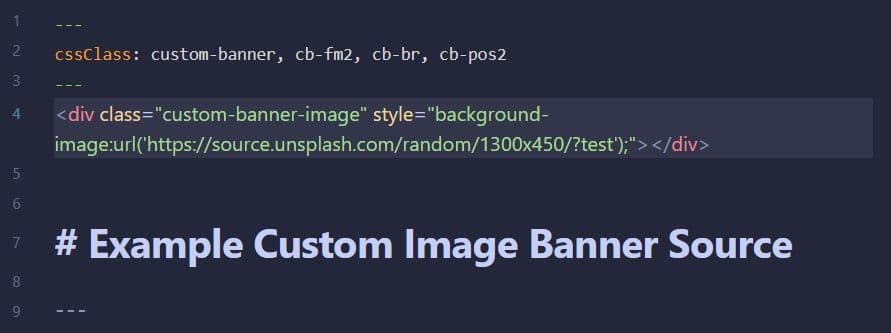
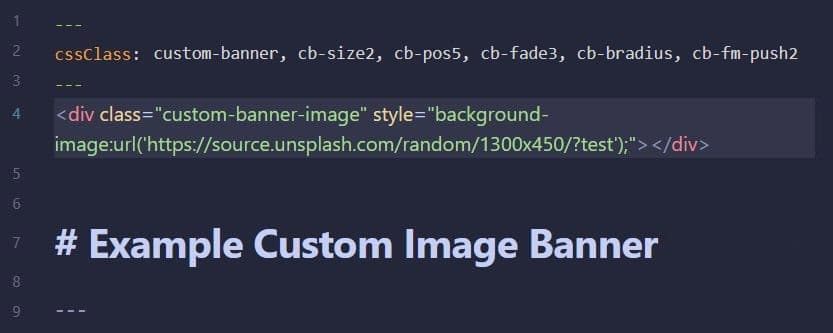
docs

diff --git a/README.md b/README.md
@@ -21,17 +21,17 @@ copy the `custom-banner-image.css` file to your Obsidian snippets folder and ena
 4. Optionally add these Frontmatter classes to further adjust properies like `image size`, `image display position`, `image fade percentage`, `image border radius`, and `frontmatter shift`
     - **banner image size** (_height_)
       ```
-      cb-sz1
-      cb-sz2
-      cb-sz3
-      cb-sz4
-      cb-sz5
+      cb-size1
+      cb-size2
+      cb-size3 [default]
+      cb-size4
+      cb-size5
       ```
 
     - **image position** (_shift image position in banner_)
       ```
       cb-pos1
-      cb-pos2
+      cb-pos2 [default]
       cb-pos3
       cb-pos4
       cb-pos5
@@ -39,11 +39,11 @@ copy the `custom-banner-image.css` file to your Obsidian snippets folder and ena
 
      - **image fade** (_transparency used as image fades from top to bottom_)
        ```
-       cb-fd1
-       cb-fd2
-       cb-fd3
-       cb-fd4
-       cb-fd5
+       cb-fade1
+       cb-fade2
+       cb-fade3
+       cb-fade4 [default]
+       cb-fade5
        ```
 
      - **display solid image** (_no fade_)
@@ -53,16 +53,16 @@ copy the `custom-banner-image.css` file to your Obsidian snippets folder and ena
   
      - **add border-radius to image**
        ```
-       cb-br
+       cb-bradius
        ```
 
-     - **frontmatter shift** (_push frontmatter container down to give room to banner image_)
+     - **push frontmatter** (_push frontmatter container down to give room to banner image_)
        ```
-       cb-fm1
-       cb-fm2
-       cb-fm3
-       cb-fm4
-       cb-fm5
+       cb-fm-push1
+       cb-fm-push2
+       cb-fm-push3
+       cb-fm-push4
+       cb-fm-push5 [default]
        ```
 
      - **frontmatter bottom** (_move frontmatter to bottom of page_)
